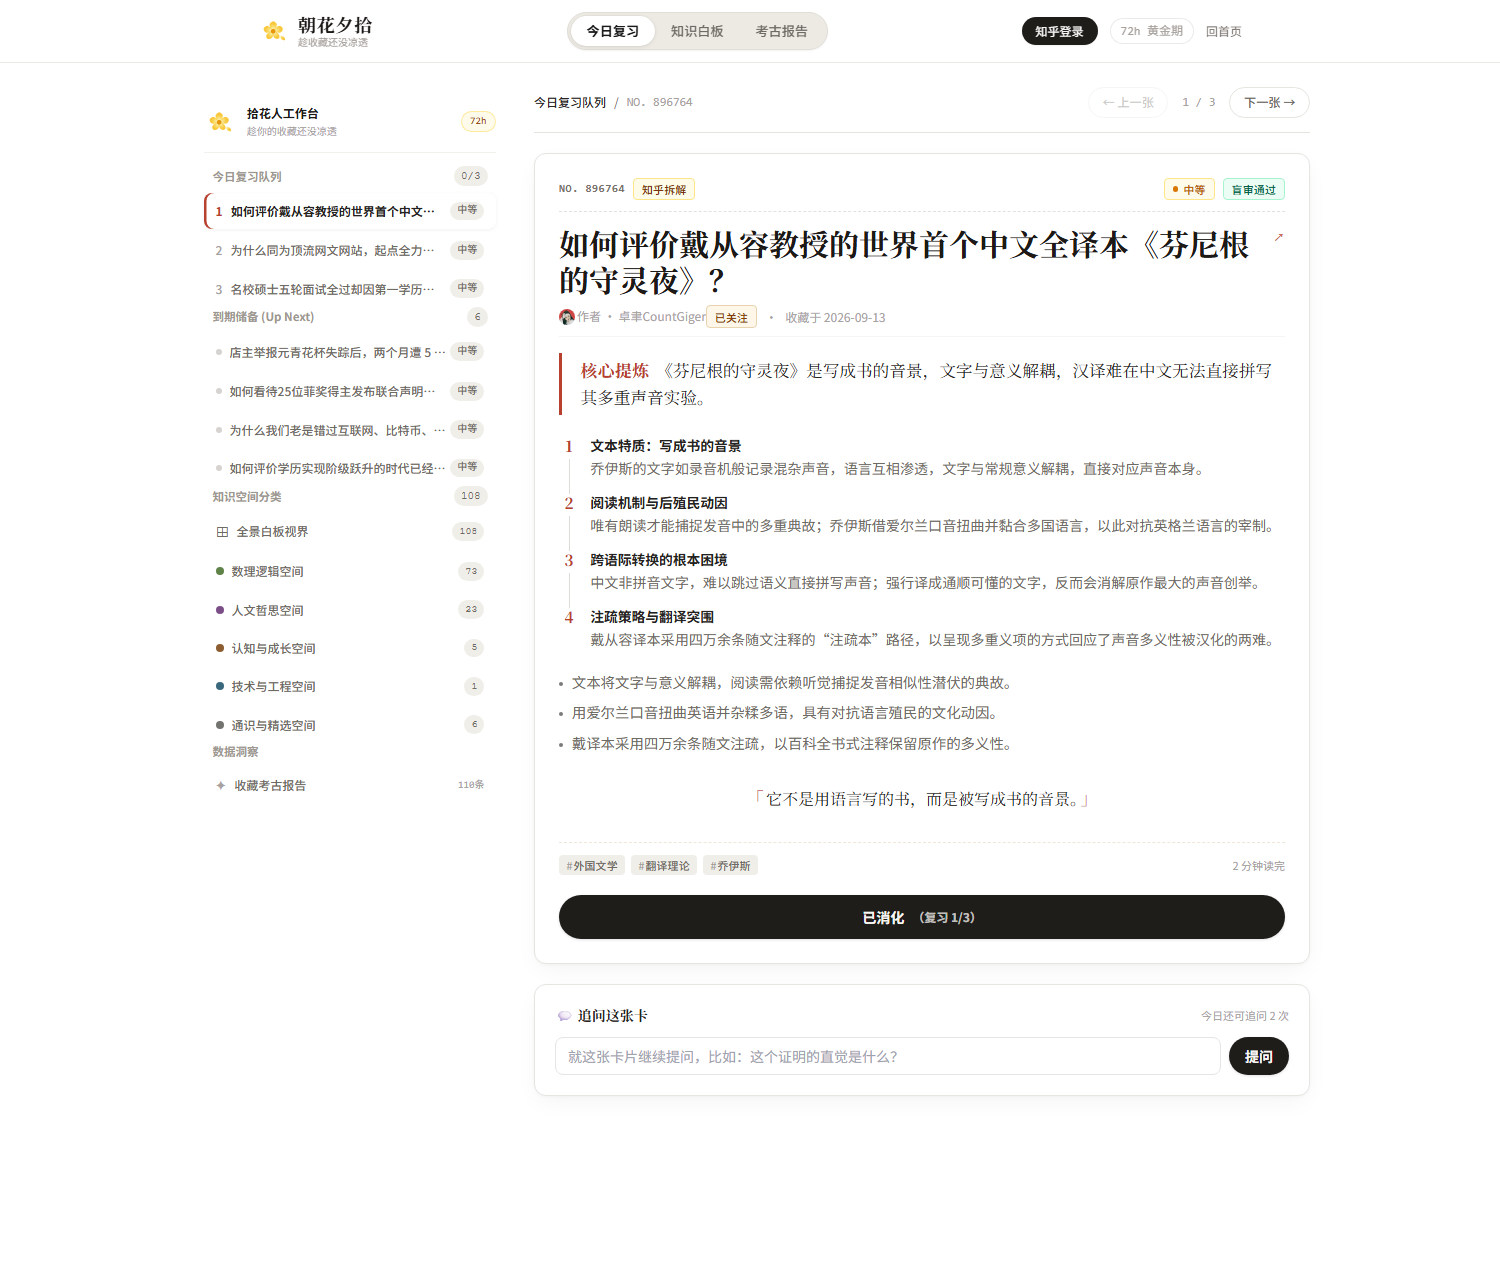
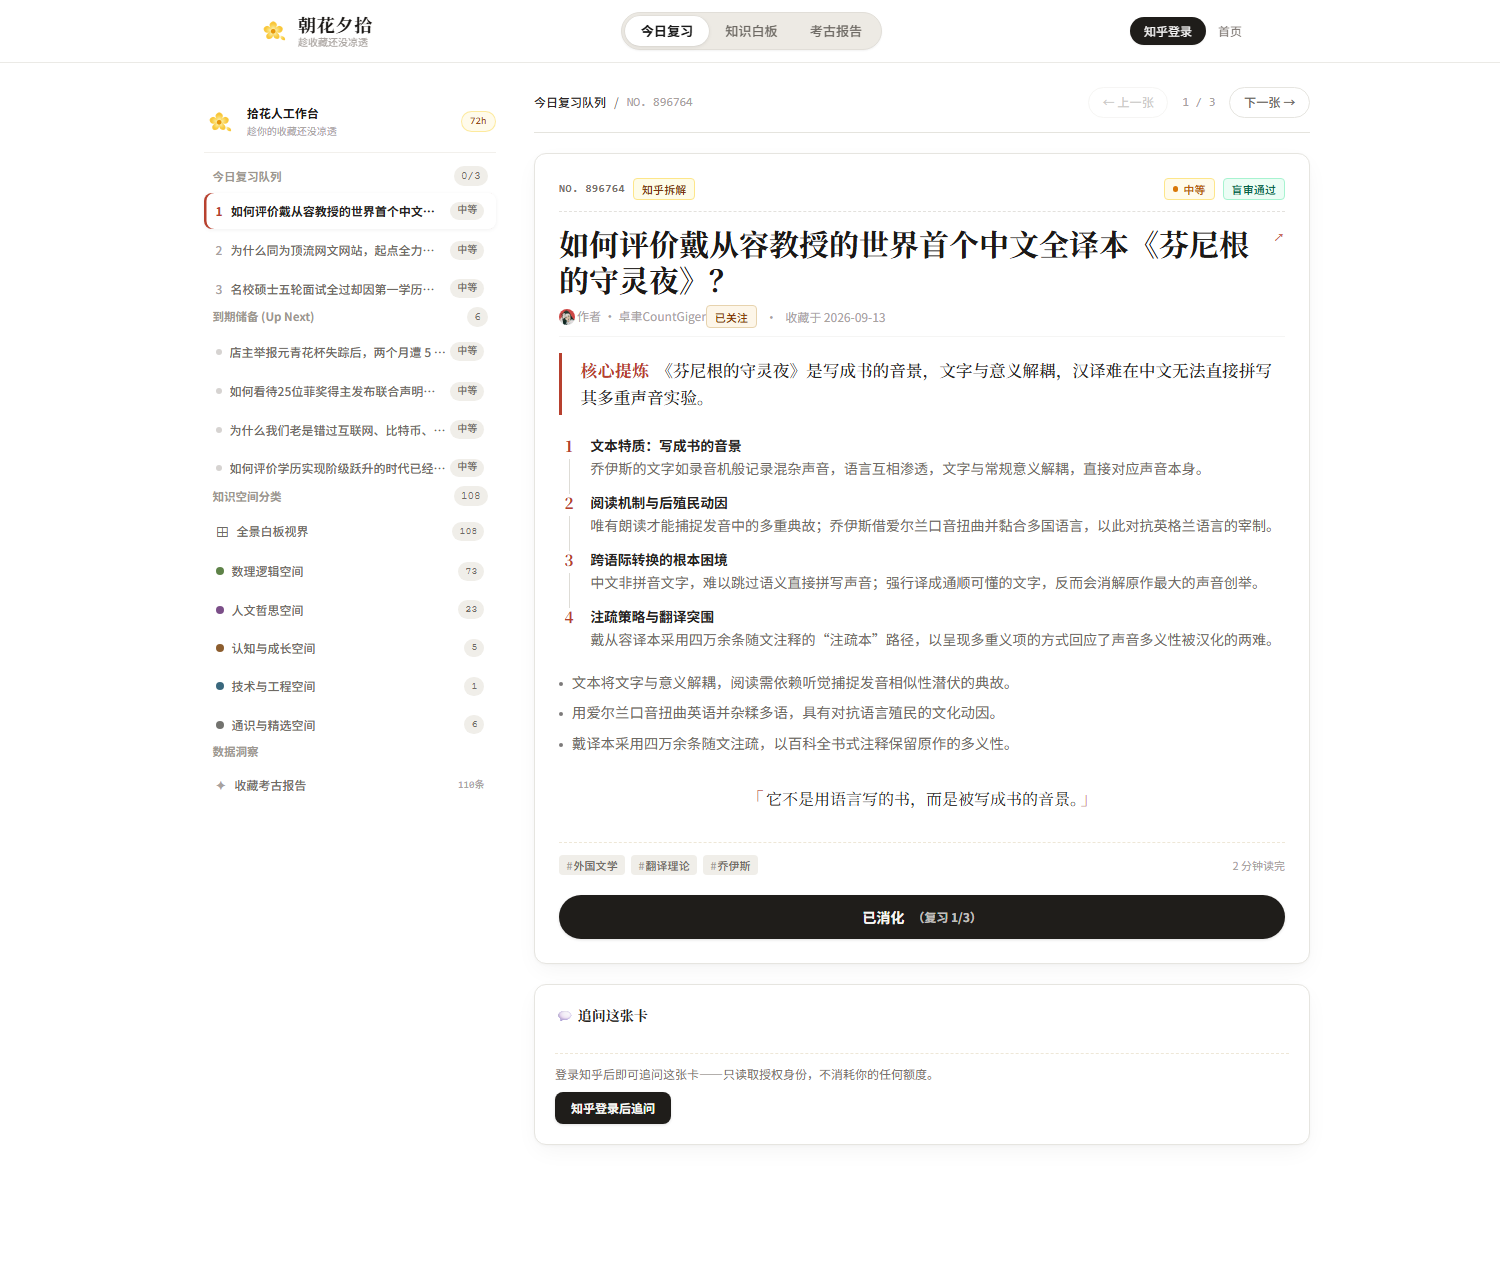
站长示例隐私脱敏（温和版，#38）：匿名访客 /api/report 只回聚合数字（总数/跨度/年代分布/距上次收藏），/api/cards、/api/queue 剥离 authorFollowed/authorAvatar；侧栏知识空间分组仅登录可见，数据洞察徽标示「已脱敏」；报告页人格画像/最老收藏/领域分布/海报按钮按字段条件隐藏，CTA 标注示例已脱敏

diff --git a/public/app.js b/public/app.js
@@ -335,7 +335,8 @@ function renderSidebar() {
       </div>
     </div>` : ''}
 
-    <!-- 分组 3：知识白板空间 -->
+    <!-- 分组 3/4：知识空间分类与数据洞察（领域分布与收藏画像属站主隐私，仅登录可见；issue #38） -->
+    ${appState.oauth?.authorized ? `
     <div class="sidebar-group">
       <div class="sidebar-group-title">
         <span>知识空间分类</span>
@@ -360,7 +361,6 @@ function renderSidebar() {
       </div>
     </div>
 
-    <!-- 分组 4：数据中心 -->
     <div class="sidebar-group">
       <div class="sidebar-group-title">
         <span>数据洞察</span>
@@ -374,7 +374,21 @@ function renderSidebar() {
           <span class="text-[10px] font-mono text-stone-400">${appState.report?.total ?? '…'}条</span>
         </button>
       </div>
-    </div>
+    </div>` : `
+    <div class="sidebar-group">
+      <div class="sidebar-group-title">
+        <span>数据洞察</span>
+      </div>
+      <div class="space-y-0.5">
+        <button class="sidebar-nav-item ${appState.tab === 'report' ? 'active' : ''}" onclick="window.selectTab('report')">
+          <div class="flex items-center gap-2">
+            <span class="text-stone-400">✦</span>
+            <span class="text-xs">收藏考古报告</span>
+          </div>
+          <span class="text-[10px] font-mono text-stone-400">已脱敏</span>
+        </button>
+      </div>
+    </div>`}
   `;
 }
 
@@ -399,11 +413,12 @@ function renderReportInStage(el, r) {
       <span class="text-xs text-stone-400 font-mono">基于 ${r.total} 条真实收藏分析${appState.reportSource === 'mine' ? '（我的收藏）' : ''}</span>
     </div>
 
+    ${r.persona ? `
     <div class="card-paper persona-hero p-7 mb-5 text-center fade-in">
       <div class="text-xs text-stone-400 mb-1.5 tracking-widest uppercase font-mono">Your Collection Persona</div>
       <div class="font-serif-display text-3xl font-bold text-cin mb-2">${esc(r.persona.type)}</div>
       <p class="text-xs text-stone-600 max-w-md mx-auto leading-relaxed">${esc(r.persona.description)}</p>
-    </div>
+    </div>` : ''}
 
     <div class="grid grid-cols-3 gap-3 mb-5">
       <div class="card-paper p-4 text-center">
@@ -415,7 +430,7 @@ function renderReportInStage(el, r) {
         <div class="text-xs text-stone-500 mt-1">收藏跨度</div>
       </div>
       <div class="card-paper p-4 text-center">
-        <div class="font-serif-display text-2xl font-bold text-stone-900">${r.newestItem.daysAgo}<span class="text-xs">天</span></div>
+        <div class="font-serif-display text-2xl font-bold text-stone-900">${r.newestItem ? r.newestItem.daysAgo : '—'}<span class="text-xs">天</span></div>
         <div class="text-xs text-stone-500 mt-1">距上次收藏</div>
       </div>
     </div>
@@ -433,7 +448,7 @@ function renderReportInStage(el, r) {
       <div class="flex gap-1.5 flex-wrap mt-3">${(r.cards.topTags || []).map((t) => `<span class="badge badge-tag">${esc(t.tag)} ${t.count}</span>`).join('')}</div>
     </div>` : ''}
 
-    ${r.total > 0 ? `
+    ${r.oldestItem ? `
     <div class="card-paper p-5 mb-5">
       <h3 class="section-head text-sm mb-2">最老的一条收藏</h3>
       <a class="text-cin hover:underline text-sm font-medium" href="${esc(r.oldestItem.url)}" target="_blank" rel="noopener">${esc(r.oldestItem.title)}</a>
@@ -885,8 +900,8 @@ function renderReportTab(stage) {
   if (!authorized) {
     parts.push(`
       <div class="card-paper p-5 mb-5 fade-in text-center border-amber-200/80 bg-amber-50/40">
-        <p class="text-sm text-stone-700 font-medium mb-1">这是站主的示例报告</p>
-        <p class="text-xs text-stone-500 mb-3">登录知乎，看看你自己的收藏人格和 72h 保质期——只读取收藏元数据，不会消耗你的任何额度。</p>
+        <p class="text-sm text-stone-700 font-medium mb-1">这是站主的示例报告（已脱敏）</p>
+        <p class="text-xs text-stone-500 mb-3">公开示例只保留聚合数字，人格画像、领域分布等隐私内容已隐藏——登录知乎，看看你自己的收藏人格和 72h 保质期，只读取收藏元数据，不会消耗你的任何额度。</p>
         <a href="/auth/login" class="btn-ink inline-flex items-center gap-1.5 px-4 py-2 text-xs rounded-lg">知乎登录，生成我的考古报告</a>
       </div>`);
   }
@@ -925,7 +940,7 @@ function renderReportTab(stage) {
 
   // 海报入口（有报告数据才显示）
   const shown = authorized ? appState.myReport : appState.report;
-  if (shown) {
+  if (shown && !shown.sanitized) {
     holder.insertAdjacentHTML('beforeend', `
       <div class="text-center mb-8 fade-in">
         <button class="btn-ink px-5 py-2.5 text-sm rounded-lg" onclick="window.makePoster()">📮 生成分享海报</button>
